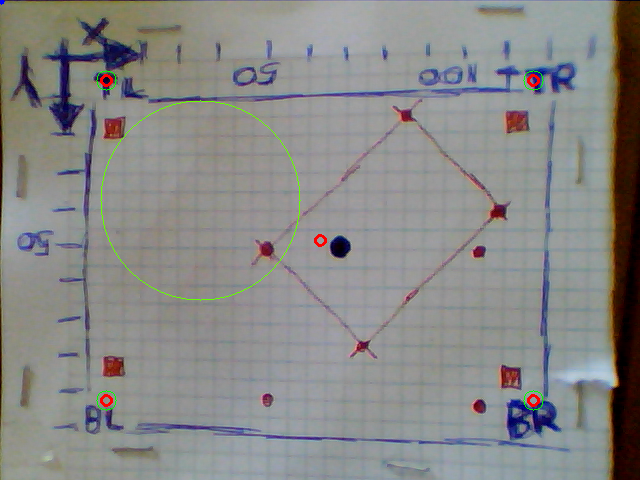
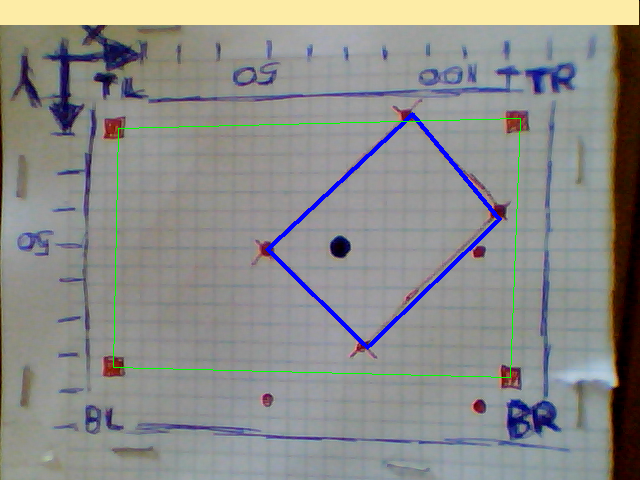
Completed: Menu, frame export ,Frame Import

diff --git a/PY_Samples/Cam/Get_Cam_Window_V4.py b/PY_Samples/Cam/Get_Cam_Window_V4.py
@@ -70,20 +70,13 @@ MountingFrame_CAMERA= [['TL',1,1],['BL',1,10],['BR',10,10],['TR',10,1]]#mounting
 #==============================================================================
 ##=============================================================================
 
-# Create point matrix get coordinates of mouse click on image
-X1=[0,1,0,0,0]
-Y1=[0,1,0,0,0]
-MousePointCounter =1
-
+# Create point matrix get coordinates of mouse click on image for CIRCLE
 X2=[0,0,0,0,0]
 Y2=[0,0,0,0,0]
 
-Xmenu=1000
-Ymenu=1000
-XYmenu=[1000,1000]
 sCMD= 'command'
 aCMD=["NULL","QUIT1","QUIT2"]
-MousePointCounter = 1
+
 
 #=============================================================================
 def mousePoints(event,x,y,flags,params):
@@ -96,27 +89,19 @@ def mousePoints(event,x,y,flags,params):
 
     if event == cv2.EVENT_LBUTTONDOWN:
         print('BEGIN===def mousePoints==============' )
-        if (x < dim[0]) & (25 <y < dim[1]) :  # menue click ignored !!
+        if (x < aImageDim[0])  :  # menue click ignored !!
             print('Co-ordinate:',x,y)
-            X1[MousePointCounter] = x
-            Y1[MousePointCounter] = y
-            MousePointCounter = MousePointCounter + 1
-            if MousePointCounter == 5 :
-                MousePointCounter = 1
-        Xmenu=x
-        Ymenu=y
-
-        aCMD=menu.command(cv2,grey_img,Xmenu,Ymenu)
-        print(Xmenu , Ymenu ,  'aCMD=' )
-        print( aCMD)
-        print('END===def mousePoints==============' )
+            aCMD=menu.command(cv2,grey_img,x,y)
+            print(x , y ,  'aCMD=' )
+            print( aCMD)
+            print('END===def mousePoints==============' )
 
 
     if event == cv2.EVENT_RBUTTONDOWN:
         print('BEGIN===def mousePoints==============' )
         printflag=1
 
-        if  (x < dim[0]) & ( y < dim[1]):
+        if  (x < aImageDim[0]) & ( y < aImageDim[1]):
             print('Circle:',x,y)
             X2[1] = x
             Y2[1] = y
@@ -124,7 +109,6 @@ def mousePoints(event,x,y,flags,params):
         print('END===def mousePoints==============' )
 
 #=============================================================================
-
 ##=============================================================================
 ##========PROGRAM BEGIN========================================================
 ##=============================================================================
@@ -148,39 +132,9 @@ else:
     grey_img = cv2.imread('grey_img.png')
 #------------------------------------------------------------------------------
 # Get Image dimensions
-scale_percent = 100 # percent of original size
-width = int(grey_img.shape[1] * scale_percent / 100)
-height = int(grey_img.shape[0] * scale_percent / 100)
-dim = (width, height)
-
 aImageDim=GetImageDimensions(grey_img)
 #------------------------------------------------------------------------------
 print('====PROGRAM START========================')
-
-P1X= int(-width/3 + width/2)
-P1Y= int(-height/3 + height/2)
-
-P2X= int(+width/3 + width/2)
-P2Y= int(-height/3 + height/2)
-
-P3X= int(-width/3 + width/2)
-P3Y= int(+height/3 + height/2)
-
-P4X= int(+width/3 + width/2)
-P4Y= int(+height/3 + height/2)
-
-P5X= int( width/2)
-P5Y= int( height/2)
-
-
-
-X2=[0,int(width/2),0,0,0]
-Y2=[0,int(height/2),0,0,0]
-
-MountingFrame=[(P1X,P1Y),(P2X,P2Y),(P3X,P3Y),(P4X,P4Y),(P5X,P5Y)]
-MP_WORLD= [('TL',P1X,P1Y),('BL',P2X,P2Y),('BR',P3X,P3Y),('TR',P4X,P4Y)] #mounting frame world
-
-
 print('====PROGRAM MAIN LOOP==================')
 
 menu=cam_menu.cam_menu(cv2,grey_img)
@@ -202,71 +156,29 @@ while(True):
     grey_img=menu.draw(cv2,grey_img)
 ##=============================================================================
 
-    # Display the resulting frame
-    thresh = 128
-
-##    grey_img_2 = cv2.cvtColor(grey_img_2, cv2.COLOR_BGR2GRAY)
-##    if cv2.waitKey(1) & 0xFF == ord('b'):
-##         grey_img_2 = cv2.threshold(grey_img_2, thresh, 255, cv2.THRESH_BINARY)[1]
-##    cv2.line(img= grey_img_2, pt1=(10, 10), pt2=(100, 100), color=(0, 0, 0), thickness=5, lineType=8, shift=0)
-##    cv2.circle(grey_img_2,(100,100), 20, (0,0,255),1)
-##    cv2.rectangle(grey_img_2,(20,20),(180,180),(0,255,0),3)
-
-    grey_img_2= cam_annotate.cam_annotate.circle(cv2,grey_img_2)
-
-    cv2.circle(grey_img_2,MountingFrame[0], 5, (0,0,255),2) #BGR
-    cv2.circle(grey_img_2,MountingFrame[1], 5, (0,0,255),2)
-    cv2.circle(grey_img_2,MountingFrame[2], 5, (0,0,255),2)
-    cv2.circle(grey_img_2,MountingFrame[3], 5, (0,0,255),2)
-    cv2.circle(grey_img_2,MountingFrame[4], 5, (0,0,255),2)
-
-##    if counter == 1 :
-##        cv2.circle(grey_img_2,MountingFrame[0], 5, (0,0,255),1)
-##    if counter == 2 :
-##        cv2.circle(grey_img_2,MountingFrame[1], 5, (0,0,255),1)
-##    if counter == 3 :
-##        cv2.circle(grey_img_2,MountingFrame[2], 5, (0,0,255),1)
-##    if counter == 4 :
-##        cv2.circle(grey_img_2,MountingFrame[3], 5, (0,0,255),1)
-    # Draw Lines of Mounting Frame WORLD
-    for POINT in MP_WORLD:
-        try:
-            cv2.circle(grey_img_2,(int(POINT[1]),int(POINT[2])), 10, (0,255,0),1)
-##            print('Point World:',POINT)
-        except:
-##            print("Not integfer",POINT)
-            dummmy=2
-
-
-    # Draw Lines of Mounting Frame
-    cv2.line(img= grey_img_2, pt1=(X1[4], Y1[4]), pt2=(X1[1], Y1[1]), color=(255, 0, 0), thickness=5, lineType=8, shift=0)
-    cv2.line(img= grey_img_2, pt1=(X1[1], Y1[1]), pt2=(X1[2], Y1[2]), color=(255, 0, 0), thickness=5, lineType=8, shift=0)
-    cv2.line(img= grey_img_2, pt1=(X1[2], Y1[2]), pt2=(X1[3], Y1[3]), color=(255, 0, 0), thickness=5, lineType=8, shift=0)
-    cv2.line(img= grey_img_2, pt1=(X1[3], Y1[3]), pt2=(X1[4], Y1[4]), color=(255, 0, 0), thickness=5, lineType=8, shift=0)
-
-
-
-    # Make Export CSV
-    DataPoints= [
-                 ['TL',X1[1],Y1[1]],
-                 ['BL',X1[2],Y1[2]],
-                 ['BR',X1[3],Y1[3]],
-                 ['TR',X1[4],Y1[4]]
-                ]
-
-    POINT=[[]]
-    for PTS,i in zip(MP_WORLD,[0,1,2,3,4,5]):
-        if i== 1: PTS_pre=PTS
+    #MountingFrame_CAMERA = [['TL', 358, 352], ['BL', 266, 248], ['BR', 446, 155], ['TR', 410, 114]]  #BGR
+    for PTS,i in zip(MountingFrame_CAMERA,[0,1,2,3]):  # zip uses shortes of two lists
+        if i== 0:
+            PTS_Start=list(PTS)
+            PTS_pre=list(PTS)
         if i > 0 :
-        # POINT[i][1][2] =2
-            cv2.line(img= grey_img_2, pt1=(int(PTS_pre[1]), int(PTS_pre[2])), pt2=(int(PTS[1]), int(PTS[2])), color=(0, 0, 0), thickness=5, lineType=8, shift=0)
-            PTS_pre=PTS
-        if i== 4:
-            PTS_pre=PTS
+            cv2.line(img= grey_img_2, pt1=(int(PTS_pre[1]), int(PTS_pre[2])), pt2=(int(PTS[1]), int(PTS[2])), color=(255, 0, 0), thickness=4, lineType=8, shift=0)
+            PTS_pre=list(PTS)
+        if i == 3 :
+            cv2.line(img= grey_img_2, pt1=(int(PTS[1]), int(PTS[2])), pt2=(int(PTS_Start[1]), int(PTS_Start[2])), color=(255, 0, 0), thickness=4, lineType=8, shift=0)
+
+    for PTS,i in zip(MountingFrame_WORLD,[0,1,2,3]):  # zip uses shortes of two lists
+        if i== 0:
+            PTS_Start=list(PTS)
+            PTS_pre=list(PTS)
+        if i > 0 :
+            cv2.line(img= grey_img_2, pt1=(int(PTS_pre[1]), int(PTS_pre[2])), pt2=(int(PTS[1]), int(PTS[2])), color=(0, 255, 0), thickness=1, lineType=8, shift=0)
+            PTS_pre=list(PTS)
+        if i == 3 :
+            cv2.line(img= grey_img_2, pt1=(int(PTS[1]), int(PTS[2])), pt2=(int(PTS_Start[1]), int(PTS_Start[2])), color=(0, 255, 0), thickness=1, lineType=8, shift=0)
 
 ##=============================================================================
 ##    sCMD=menu.command(cv2,grey_img,Xmenu,Ymenu)  # do not draw image in begin
-
 
     if type(aCMD[0]) is str:
         sCMD=aCMD[0]
@@ -276,18 +188,17 @@ while(True):
 
     if sCMD=='LOAD PTS':
         print('====IMPORT CSV==============================================')
-        print('IMPORT CSV - datapointsWORLD.csv')
-
+        print('IMPORT CSV - MountingFrame_WORLD.csv')
         # Draw Lines of  imported Mounting Frame
-        sPathFile='datapointsWORLD.csv'
-        MP_WORLD=ImportMountingFrame(sPathFile)
+        sPathFile='MountingFrame_WORLD.csv'
+        MountingFrame_WORLD=ImportMountingFrame(sPathFile)
 
     if sCMD=='SAVE PTS':
         print('====EXPORT CSV==============================================')
-        print('EXPORT CSV - datapointsCAM.csv')
-        sPathFile='datapointsCAM.csv'
-        ExportMountingFrame(sPathFile,DataPoints)
-        print(DataPoints)
+        print('EXPORT CSV - MountingFrame_CAMERA.csv')
+        sPathFile='MountingFrame_CAMERA.csv'
+        ExportMountingFrame(sPathFile,MountingFrame_CAMERA)
+        print(MountingFrame_CAMERA)
 
     if sCMD=='SAVE IMG':
         print('====EXPORT CSV==============================================')
@@ -299,8 +210,8 @@ while(True):
     if aCMD[1]=='BL' and type(aCMD[0]) is tuple:
         print('====NEW BL POINT Detected====================================')
         #MountingFrame_CAMERA= [('TL',1,1),('BL',1,10),('BR',10,10),('TR',10,1)]#mounting frame world
-        MountingFrame_CAMERA[1][1]=aCMD[0][0]
-        MountingFrame_CAMERA[1][2]=aCMD[0][1]
+        MountingFrame_CAMERA[0][1]=aCMD[0][0]
+        MountingFrame_CAMERA[0][2]=aCMD[0][1]
         print(MountingFrame_CAMERA)
         cam_menu.cam_menu.aCMD[2]=cam_menu.cam_menu.aCMD[1]
         cam_menu.cam_menu.aCMD[1]=cam_menu.cam_menu.aCMD[0]
@@ -309,8 +220,8 @@ while(True):
     if aCMD[1]=='BR' and type(aCMD[0]) is tuple:
         print('====NEW BL POINT Detected====================================')
         #MountingFrame_CAMERA= [('TL',1,1),('BL',1,10),('BR',10,10),('TR',10,1)]#mounting frame world
-        MountingFrame_CAMERA[0][1]=aCMD[0][0]
-        MountingFrame_CAMERA[0][2]=aCMD[0][1]
+        MountingFrame_CAMERA[1][1]=aCMD[0][0]
+        MountingFrame_CAMERA[1][2]=aCMD[0][1]
         print(MountingFrame_CAMERA)
         cam_menu.cam_menu.aCMD[2]=cam_menu.cam_menu.aCMD[1]
         cam_menu.cam_menu.aCMD[1]=cam_menu.cam_menu.aCMD[0]
@@ -336,8 +247,6 @@ while(True):
         cam_menu.cam_menu.aCMD[1]=cam_menu.cam_menu.aCMD[0]
         cam_menu.cam_menu.aCMD[0]="DONE"
 ##=============================================================================
-# write PIXEL
-
 # READ PIXEL
     nDimCroshair=5
     for j in range(-nDimCroshair,nDimCroshair):
@@ -373,48 +282,9 @@ while(True):
     cv2.circle(grey_img_2,(X2[1],Y2[1]), nDimCroshair, (0,255,0),nCircle)
 
 ##    print('Circle LM:',X2[1],Y2[1])
-
 ##=============================================================================
-
 ##    rect = cv2.Rect(x, y, width, height)
 ##    region = image(rect)
-
-    # font
-    font = cv2.FONT_HERSHEY_SIMPLEX
-    # org
-    org = (20, 10)
-    # fontScale
-    fontScale = 0.5
-    # Blue color in BGR
-    color = (0, 255, 0)
-    # Line thickness of 2 px
-    thickness = 1
-    # Using cv2.putText() method
-    sText="..."
-    if MousePointCounter==4:
-            sText='Point TL '
-    if MousePointCounter==1:
-            sText='Point BL '
-    if MousePointCounter==2:
-            sText='Point BR '
-    if MousePointCounter==3:
-            sText='Point TR '
-
-    org = (500, 20)
-    image = cv2.putText(grey_img_2, sONOFF + str(sBrightness), org, font,
-                       fontScale, color, thickness, cv2.LINE_AA)
-    org = (500, 40)
-    image = cv2.putText(grey_img_2, sText + str(MousePointCounter), org, font,fontScale, color, thickness, cv2.LINE_AA)
-
-    org = (200, 40)
-    image = cv2.putText(grey_img_2, sCMD, org, font,
-                       fontScale, color, thickness, cv2.LINE_AA)
-
-    org = (20, height - 20)
-    sMENUE='e- export CSV ; 1 -Imort CSV ; S -Save Images ; q- quit'
-    image = cv2.putText(grey_img_2, sMENUE, org, font,
-                       fontScale, color, thickness, cv2.LINE_AA)
-
 ##=============================================================================
 # KEYSTRIKE COMMANDS
     # EXPORT CSV

diff --git a/PY_Samples/Cam/cam_menu.py b/PY_Samples/Cam/cam_menu.py
@@ -17,7 +17,7 @@ import csv
 class cam_menu:
 
     ##  Class variables: This variable is shared between all objects of a class
-    menu=["QUIT","SAVE PTS","LOAD PTS","SAVE IMG","FREE 1","FREE 2"]
+    menu=["QUIT","SAVE PTS","LOAD PTS","SAVE IMG","POINTS:" ,"BL","BR","TR","TL"]
     ## command history and command latest
     aCMD=["NULL","QUIT1","QUIT2"]
 
@@ -72,13 +72,18 @@ class cam_menu:
 ##        menu=["QUIT","SAVE PTS","LOAD PTS","SAVE IMG","...."]
         cmd="NULL"
 
-        for i in[0,1,2,3,4]:
+        for i in range(0,self.menue_items-1):
             start_point = (1+spacing_button*i, 1)
             end_point = (1+spacing_button*i+ width_button, height_button)
 
             if (Y< height_button) and (start_point[0] < X < end_point[0]) :
                 cmd=cam_menu.menu[i]
 
+                cam_menu.aCMD[2]=cam_menu.aCMD[1]
+                cam_menu.aCMD[1]=cam_menu.aCMD[0]
+                cam_menu.aCMD[0]=cmd
+        if cmd=="NULL" :
+                cmd=(X,Y)
                 cam_menu.aCMD[2]=cam_menu.aCMD[1]
                 cam_menu.aCMD[1]=cam_menu.aCMD[0]
                 cam_menu.aCMD[0]=cmd
